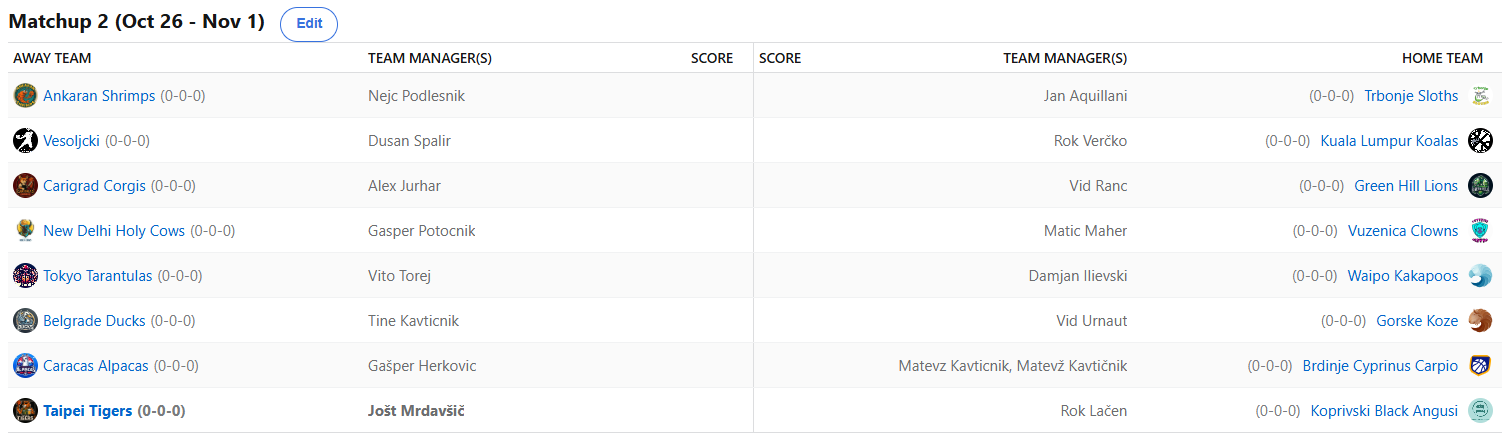
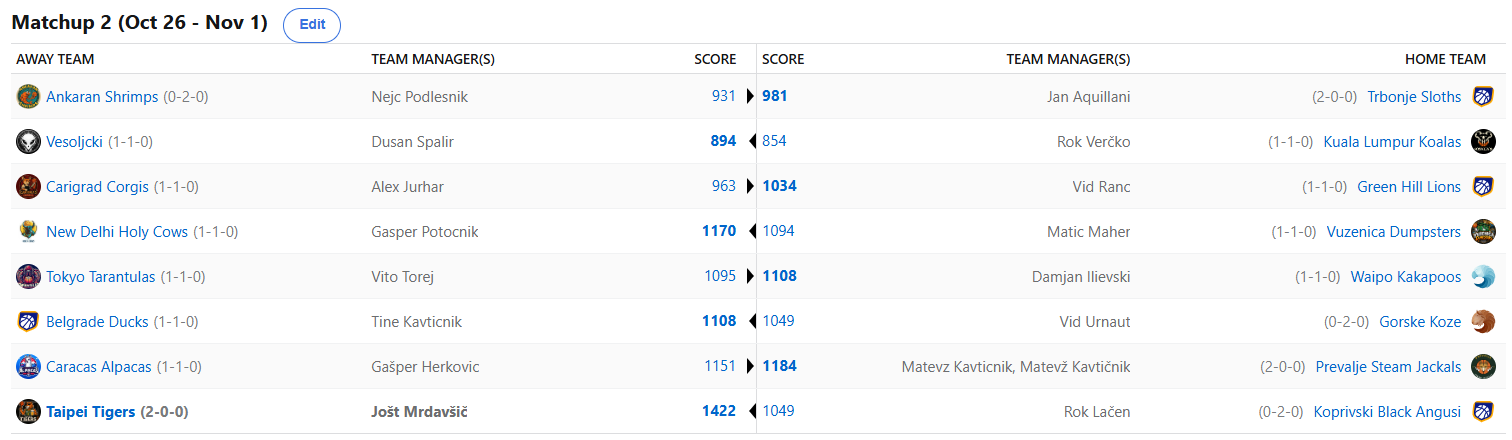
.

diff --git a/predictions/index.html b/predictions/index.html
@@ -2789,6 +2789,11 @@
       var status = $('#aiStatus');
       var raw = ($('#aiJsonInput').value || '').trim();
       if(!raw){ status.textContent = 'Najprej prilepi JSON odgovor.'; return; }
+      // počisti znake, ki jih kopiranje iz klepeta rado podtakne: ukrivljeni narekovaji, nevidni presledki, BOM, vejica pred ] ali }
+      raw = raw.replace(/[“”„‟″«»]/g, '"')
+               .replace(/[‘’‚‛]/g, "'")
+               .replace(/[  -  　]/g, ' ')
+               .replace(/,\s*([\]}])/g, '$1');
       var data;
       try{
         // tolerant parse: whole text, else a fenced code block, else first [ or { .. last ] or }
@@ -2805,9 +2810,21 @@
           }
         }
       } catch(e){
-        status.textContent = 'Ne morem razumeti JSON-a — preveri obliko in poskusi znova.';
-        console.warn('AI paste parse error:', e);
-        return;
+        // rezerva: če JSON ni veljaven, poišči imena ekip po vrstnem redu pojavitve in jih združi v pare (a, b)
+        var found = [], low = raw.toLowerCase();
+        TEAMS.forEach(function(t){
+          var nm = teamNameOnly(t).toLowerCase(), from = 0, idx;
+          while((idx = low.indexOf(nm, from)) >= 0){ found.push({i: idx, t: t}); from = idx + nm.length; }
+        });
+        found.sort(function(x,y){ return x.i - y.i; });
+        if(found.length >= 2 && found.length % 2 === 0){
+          data = [];
+          for(var q=0; q+1<found.length; q+=2){ data.push({a: found[q].t, b: found[q+1].t}); }
+        } else {
+          status.textContent = 'Ne morem razumeti JSON-a — preveri obliko in poskusi znova.';
+          console.warn('AI paste parse error:', e);
+          return;
+        }
       }
       var list = Array.isArray(data) ? data : null;
       if(!list && data && typeof data === 'object'){

diff --git a/index.html b/index.html
@@ -52,7 +52,7 @@ document.addEventListener("DOMContentLoaded", function() {
 
             <div class="col-7 main">
                 <div class="season-banner"><span class="season-tag">since 2017</span><span class="season-dot">&bull;</span><span class="season-banner-league">NBA Fantasy Koroška</span><span class="season-dot">&bull;</span><span class="season-chip">season 10</span></div>
-                <h2 style="text-align: center;">DRAFT COUNTDOWN:</h2>
+                <h2 style="text-align: center;">PIKNIK COUNTDOWN:</h2>
                 <p id="demo"></p>
                 <script>
                         // Set the date we're counting down to
